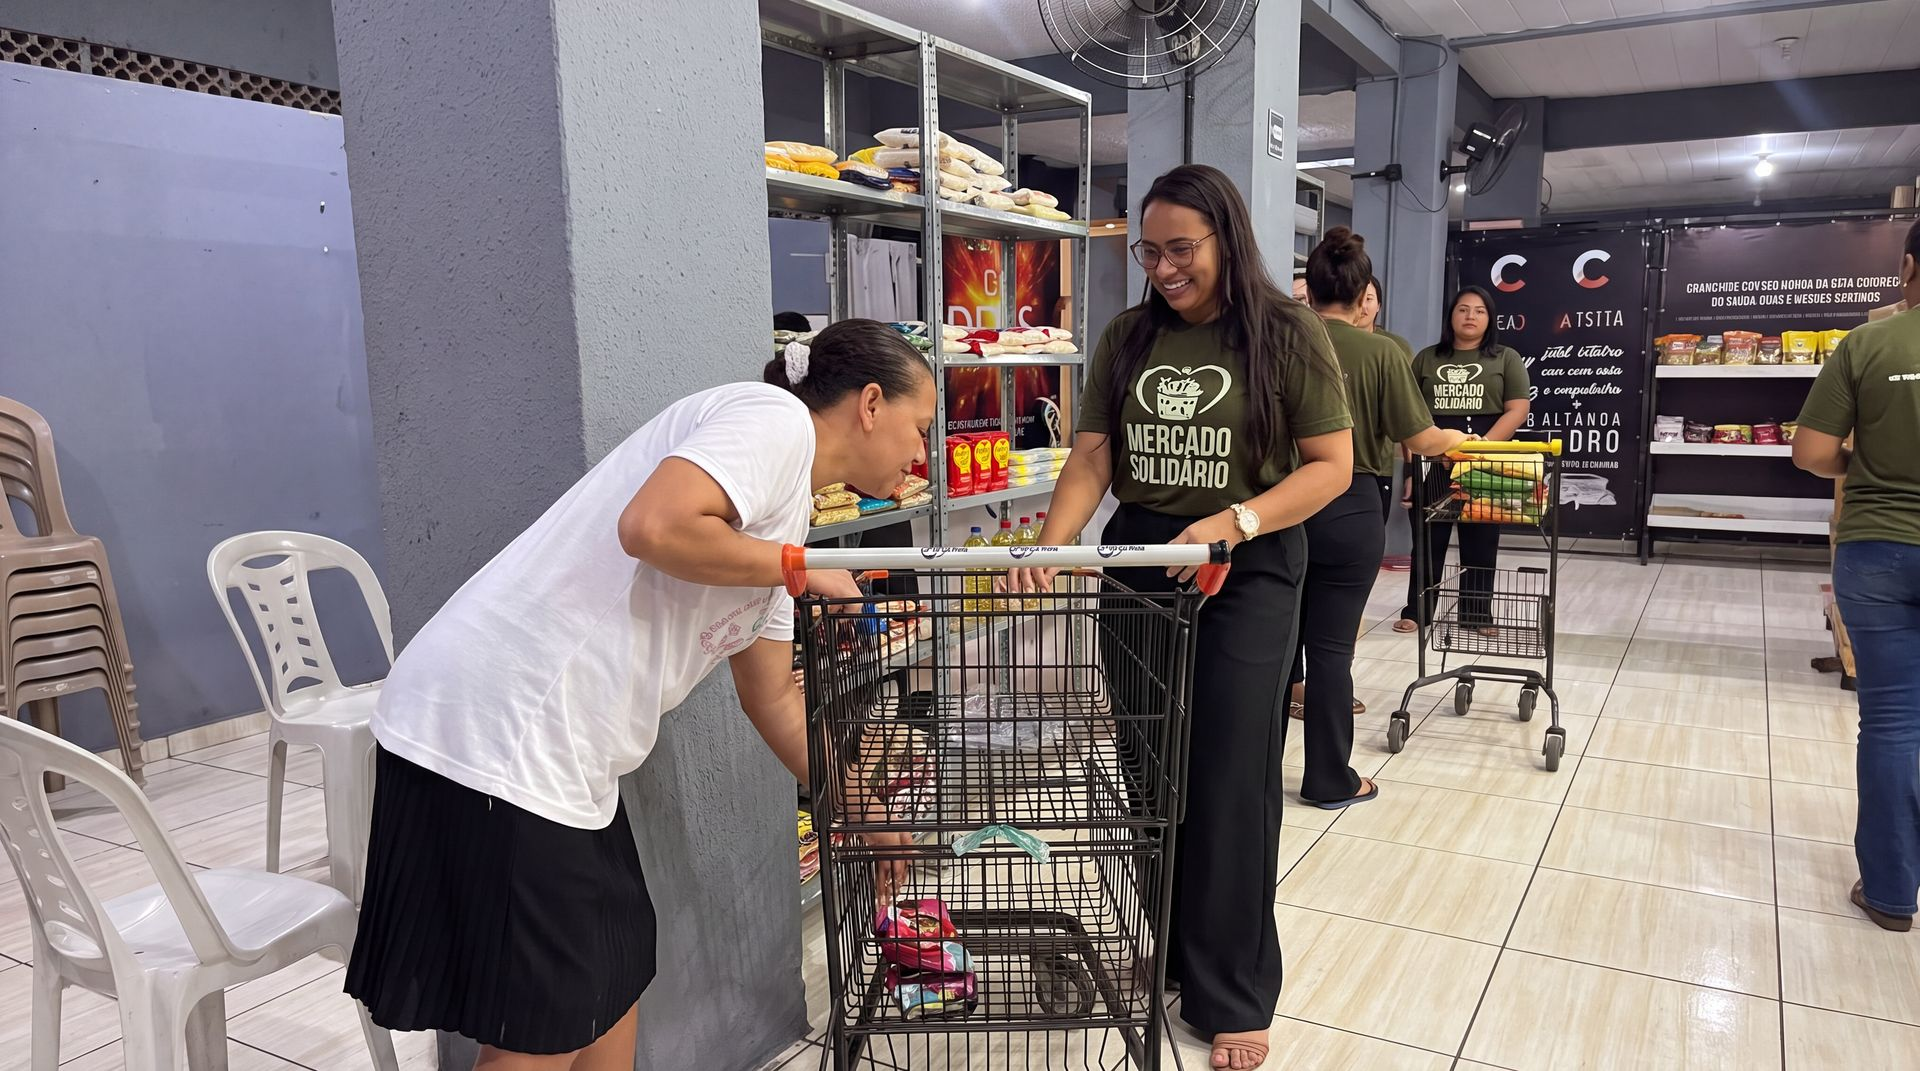
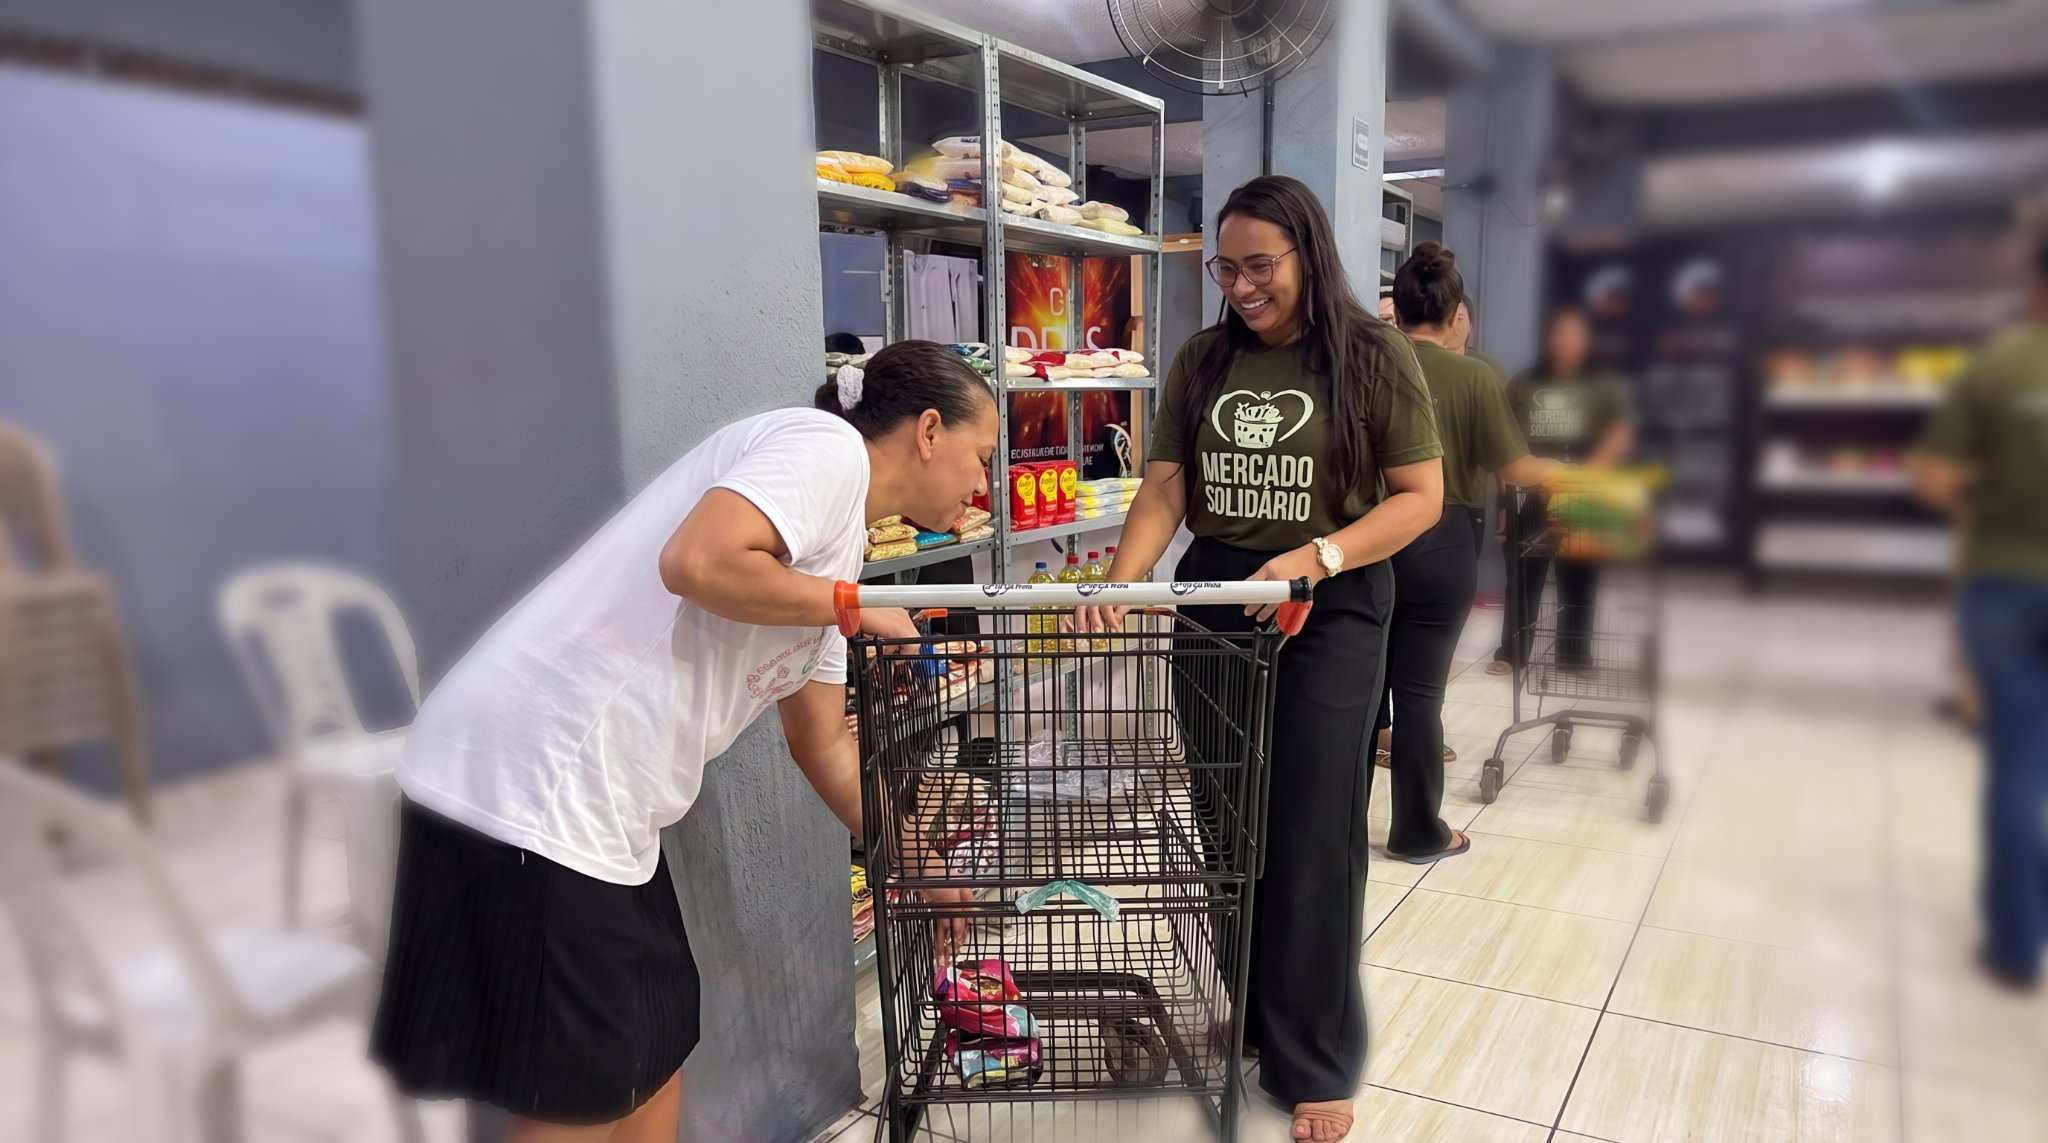
Atualiza novamente a foto do Mercado Solidário na seção de Doações

diff --git a/src/app/page.tsx b/src/app/page.tsx
@@ -277,8 +277,8 @@ export default function Home() {
         <StickyPhoto
           src="/images/doacoes/mercado.jpg"
           alt="Voluntários organizando doações de alimentos no Mercado Solidário da Igreja Colheita"
-          imageWidth={1920}
-          imageHeight={1071}
+          imageWidth={2048}
+          imageHeight={1143}
         />
 
         <Section
